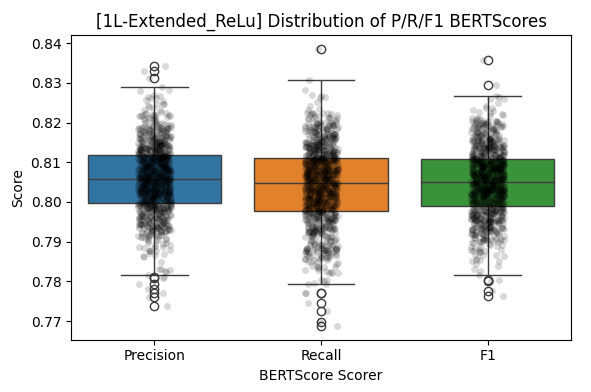
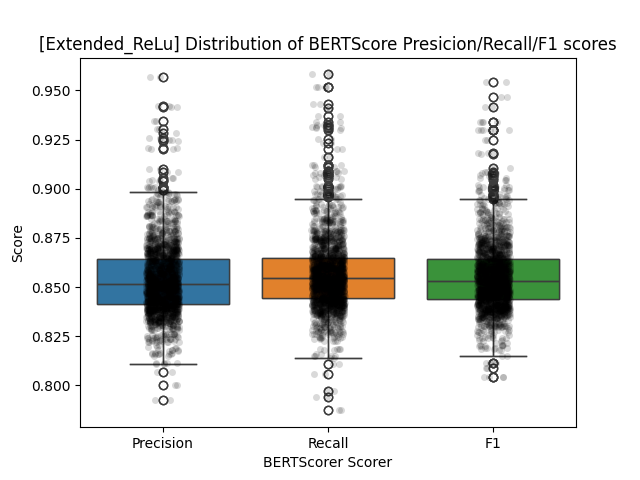
debug bertscore

Changed region(s): [[0.0, 0.0306, 0.9746, 0.9796]]

diff --git a/src/pipeline/util_ana.py b/src/pipeline/util_ana.py
@@ -42,17 +42,6 @@ def predict_sentences(model, loader, cpu_store=True):
     return preds, all_labels
 
 
-def get_gold_summaries(ds_path="ccdv/govreport-summarization"):
-    ds = load_dataset(path=ds_path, split="test")
-    df = pd.DataFrame({
-        "Article_ID": range(len(ds)),
-        "Summary": ds["summary"]
-    })
-    df["Article_ID"] = df["Article_ID"].astype(int)
-    df["Summary"] = df["Summary"].astype(str)
-    return df
-
-
 def compare_similariry(model, loader, path_invert_vocab, df_, scorer, maxf1=0.55, minf1=0.5, cpu_store=True):
     if scorer == 'rouge':
         rougeLF1 = []
@@ -80,10 +69,6 @@ def compare_similariry(model, loader, path_invert_vocab, df_, scorer, maxf1=0.55
     sent_dict_disk = pd.read_csv(path_invert_vocab + "vocab_sentences.csv")
     invert_vocab_sent = {k: v for k, v in zip(sent_dict_disk['Sentence_id'], sent_dict_disk['Sentence'])}
 
-    # TODO: allow alternative - check if diff from current
-    df_gold_ = get_gold_summaries()
-    gold_summary_lookup = dict(zip(df_gold_["Article_ID"], df_gold_["Summary"]))
-
     for batch_idx, data in enumerate(tqdm(loader, desc="Evaluating ROUGE/BERTScore")):
         pred_batch = preds[batch_idx]
 
@@ -109,7 +94,6 @@ def compare_similariry(model, loader, path_invert_vocab, df_, scorer, maxf1=0.55
                 joint_wo_duplicates += key_matched2vocab + " "
 
         # Get reference summary
-        #summary_matched = df_.where(df_['Article_ID'] == data['article_id'].item()).dropna()['Summary'].values[0]
         summary_lookup = dict(zip(df_["Article_ID"], df_["Summary"]))
         summary_matched = summary_lookup[data["article_id"].item()]
 
@@ -153,8 +137,8 @@ def compare_similariry(model, loader, path_invert_vocab, df_, scorer, maxf1=0.55
               "Mean ROUGE L-F1:", np.mean(rougeLF1))
         return flat_preds, flat_labels, max_id_article, min_id_article, max_f1, min_f1, rouge1F1, rouge2F1, rougeLF1
     elif scorer == 'bertscore':
-        print("Mean BERTScore precision:", BP.mean().item(), "Mean BERTScore recall", BR.mean().item(),
-              "Mean BERTScore L-F1:", BF1.mean().item())
+        print("Mean BERTScore precision:", np.mean(BP).item(), "Mean BERTScore recall", np.mean(BR).item(),
+              "Mean BERTScore L-F1:", np.mean(BF1).item())
         return flat_preds, flat_labels, max_id_article, min_id_article, max_f1, min_f1, BP, BR, BF1
 
 

diff --git a/analyze_summaries.py b/analyze_summaries.py
@@ -106,6 +106,7 @@ def main_run(config_file, num_print,
     gat_folder = os.path.join(path_logger, model_name, "GAT", type_graph + "_unified")
     model_list = [f.rsplit(".ckpt")[0] for f in os.listdir(gat_folder) if f.endswith(".ckpt") ]
     gat_checkpoint = max(model_list, key=extract_val_f1)
+    print("Selected model:", gat_checkpoint)
     gat_path = os.path.join(gat_folder, gat_checkpoint + ".ckpt")
     match = re.search(r'_(\d+)L_(\d+)U_', gat_checkpoint)
     if match:
@@ -141,8 +142,8 @@ def main_run(config_file, num_print,
         print("Analyzing Rouge scores...")
         preds, all_labels, max_id, min_id, max_f1, min_f1, rouge1, rouge2, rougeL = compare_similariry(
             gat_model, test_loader, path_vocab, df_test, scorer='rouge', maxf1=0.55, minf1=0.49)
-        _, _= eval_results(torch.Tensor(preds), all_labels, num_classes,
-                           f"Test - {num_layers}L-{model_name} {type_graph} Graphs")
+        _, _= eval_results(torch.tensor(preds), all_labels, num_classes,
+                           f"Test - {model_name} {type_graph} Graphs")
 
         sns.boxplot(data=(rouge1, rouge2, rougeL), orient='v')
         sns.stripplot(data=(rouge1, rouge2, rougeL), marker="o", alpha=0.15, color="black", orient='v')
@@ -159,10 +160,10 @@ def main_run(config_file, num_print,
         _, _= eval_results(torch.tensor(preds), all_labels, num_classes,
                            f"Test - {model_name} {type_graph} Graphs")
 
-        sns.boxplot(data=(P, R, F1), orient='v')
-        sns.stripplot(data=(P, R, F1), marker="o", alpha=0.15, color="black", orient='v')
-        plt.title(f"[{num_layers}L-{model_name}] Distribution of BERTScore Presicion/Recall/F1 scores", fontsize=12)
-        plt.xticks(ticks=[0, 1, 2], labels=['Presicion', 'Recall', 'F1'])
+        sns.boxplot(data=[P, R, F1], orient='v')
+        sns.stripplot(data=[P, R, F1], marker="o", alpha=0.15, color="black", orient='v')
+        plt.title(f"[{model_name}] Distribution of BERTScore Presicion/Recall/F1 scores", fontsize=12)
+        plt.xticks(ticks=[0, 1, 2], labels=['Precision', 'Recall', 'F1'])
         plt.ylabel("Score", fontsize=10)
         plt.xlabel("BERTScorer Scorer", fontsize=10)
         plt.show()
